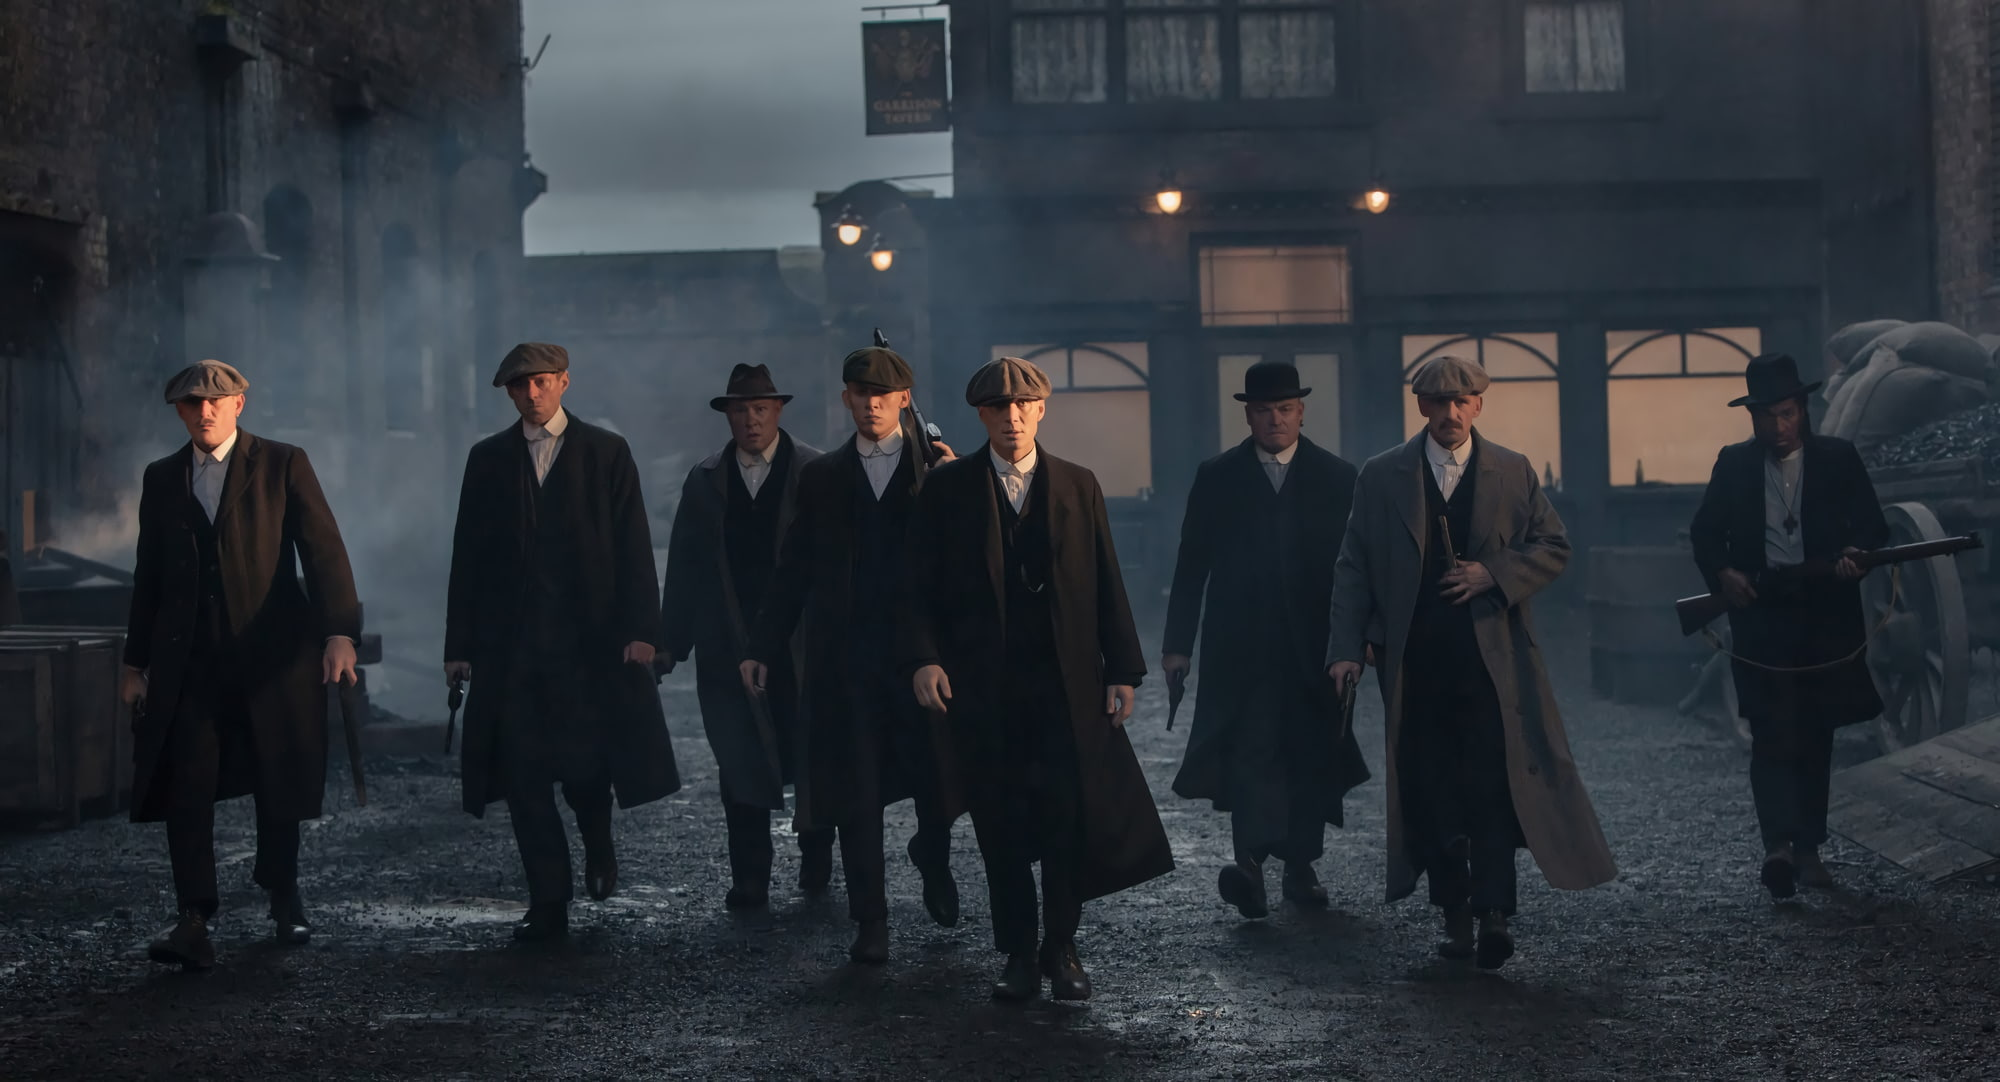
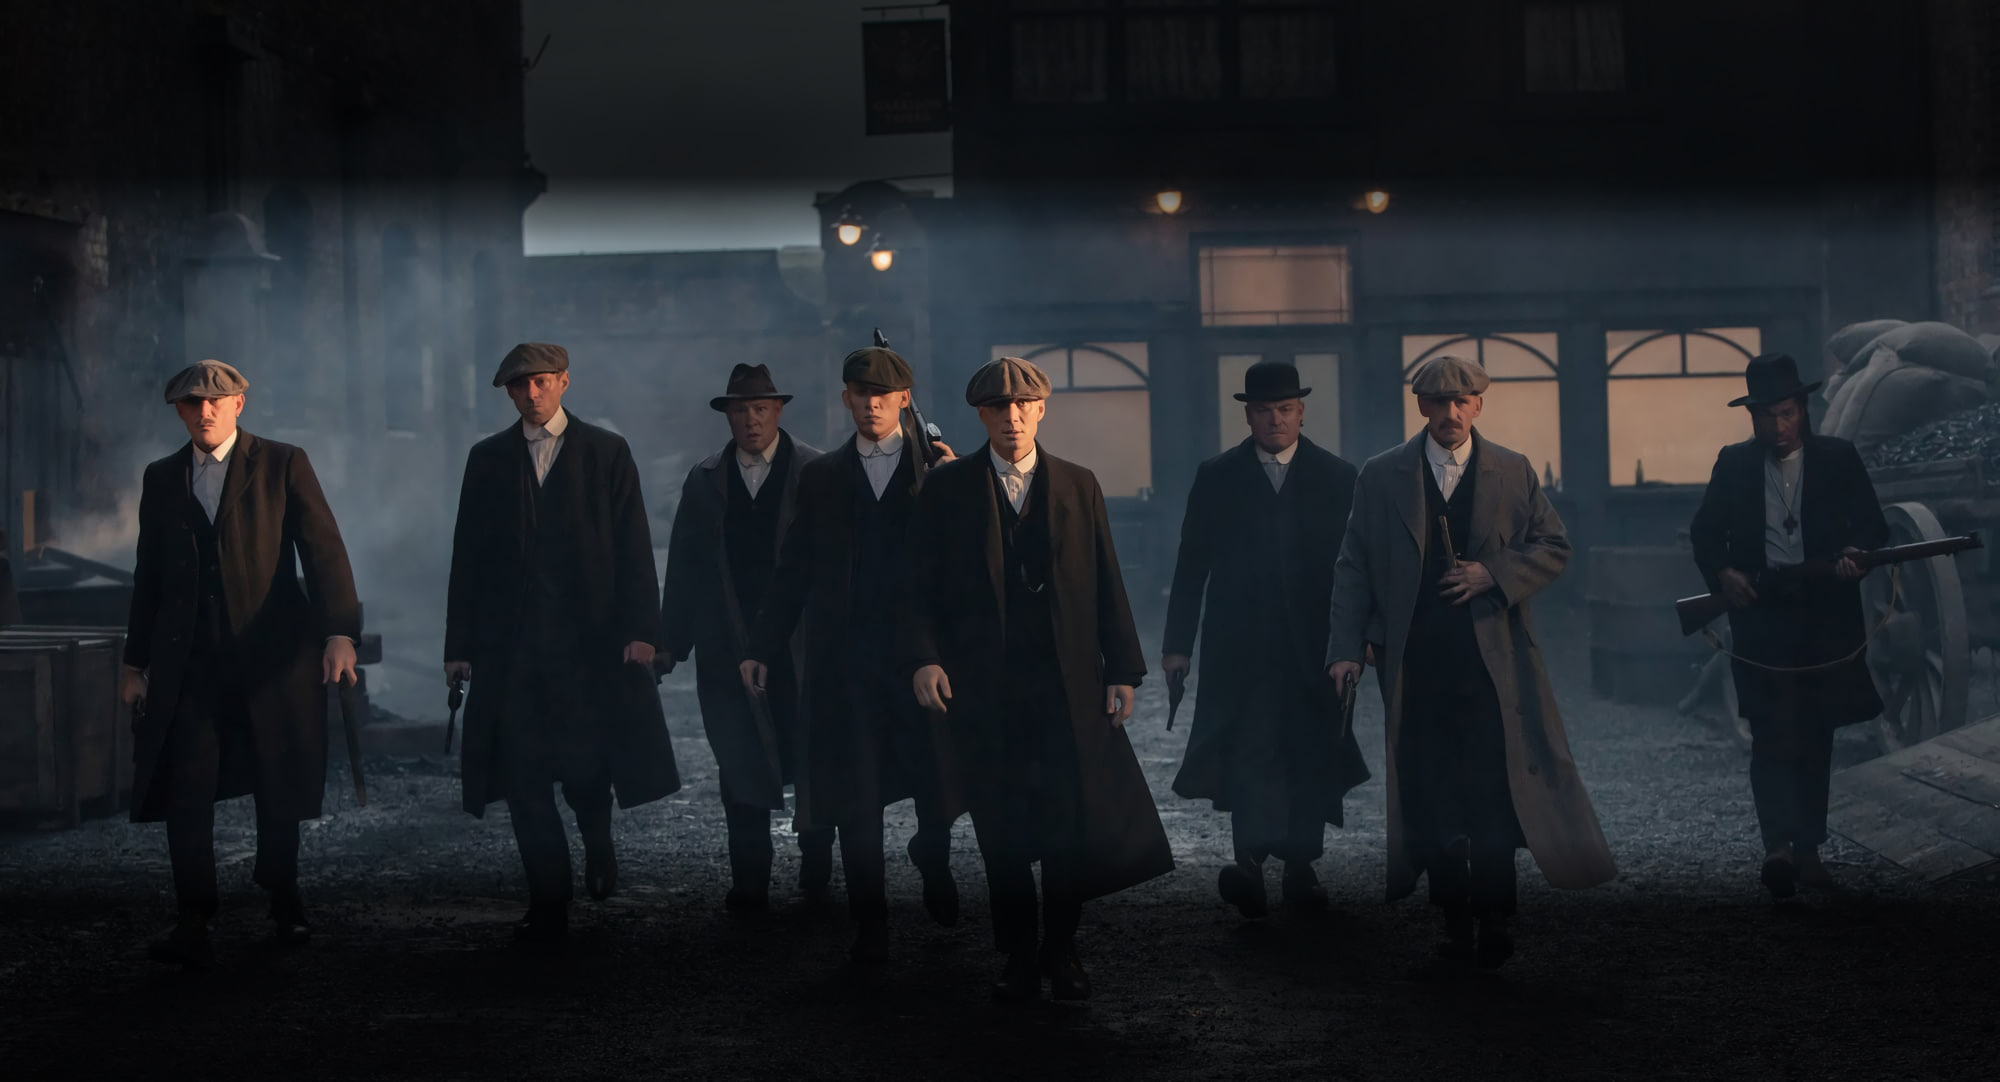
ss

diff --git a/peakyblinders/app/page.tsx b/peakyblinders/app/page.tsx
@@ -19,15 +19,15 @@ export default function Home() {
     </div>
 
     <div className="hero-section relative">
-        <Image className='w-full bg-cover bg-center'
+        <Image className='hero-section w-full bg-cover bg-center'
           src="/hero2.jpg"
           width={5000000}
           height={500000}
           alt="Picture of the author"
           quality={100}
         />
-      <div className=" absolute inset-0 bg-black bg-opacity-50 flex flex-col items-center justify-center ">
-        <p className="hero  text-gray-200 text-center text-5xl font-thin min-[375px]:text-6xl min-[425px]:text-7xl min-[500px]:text-8xl sm:text-9xl min-[900px]:text-[150px] lg:text-[200px] xl:text-[250px] 2xl:text-[300px] ">Peaky Blinders</p>
+      <div className=" absolute inset-0 bg-black bg-opacity-75 flex flex-col items-center  ">
+        <p className="hero  text-gray-200 text-center text-5xl font-thin min-[375px]:text-6xl min-[425px]:text-7xl min-[500px]:text-8xl sm:text-9xl min-[900px]:text-[150px] lg:text-[200px] xl:text-[250px] 2xl:text-[300px] ">CAST</p>
         <p className=" text-[10px] font-thin text-gray-400 text-center px-10 sm:text-md md:text-lg lg:text-xl xl:text-2xl ">Welcome, Peaky Blinders enthusiasts, to a place where the razor-sharp style meets the gritty streets of Birmingham! This is your ultimate destination for all things Peaky Blinders, a fan page dedicated to celebrating the gripping saga of the Shelby family.</p>
         
       </div>

diff --git a/peakyblinders/app/globals.css b/peakyblinders/app/globals.css
@@ -15,7 +15,6 @@
 .nisal{
     font-family: var(--font-padauk);
 } */
-
-/* .hero-section{
-    background-image: linear-gradient(top, black,white);
-} */
+ /* .hero-section{
+    background: linear-gradient(to top, #660033 47%, #66ffff 100%);
+}  */
